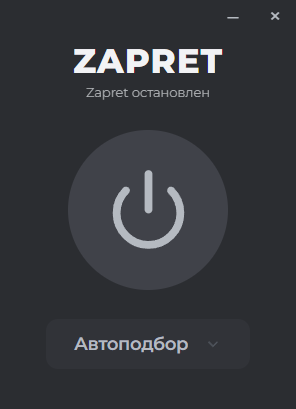
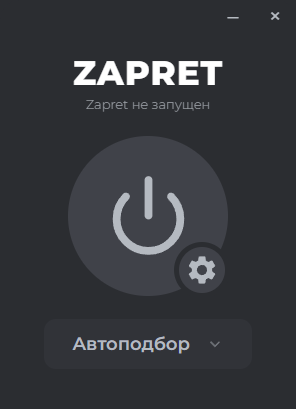
Update screenshots and README captions
Replace two UI screenshots and update their captions in README to reflect active/inactive main window states. Binary image assets assets/screen1.png and assets/screen2.png were updated, and the README labels were changed from generic titles to "Main Window Unactive" and "Main Window Active" to better describe the screenshots.

diff --git a/README.md b/README.md
@@ -1,7 +1,7 @@
 # Zapret-GUI
 
-![Main Window](./assets/screen1.png)
-![Strategy Selector](./assets/screen2.png)
+![Main Window Unactive](./assets/screen1.png)
+![Main Window Active](./assets/screen2.png)
 
 Простая оболочка для [zapret-discord-youtube](https://github.com/Flowseal/zapret-discord-youtube). Больше не нужно вручную перебирать батники — приложение само запустит нужную стратегию или найдёт рабочую самостоятельно.
 
